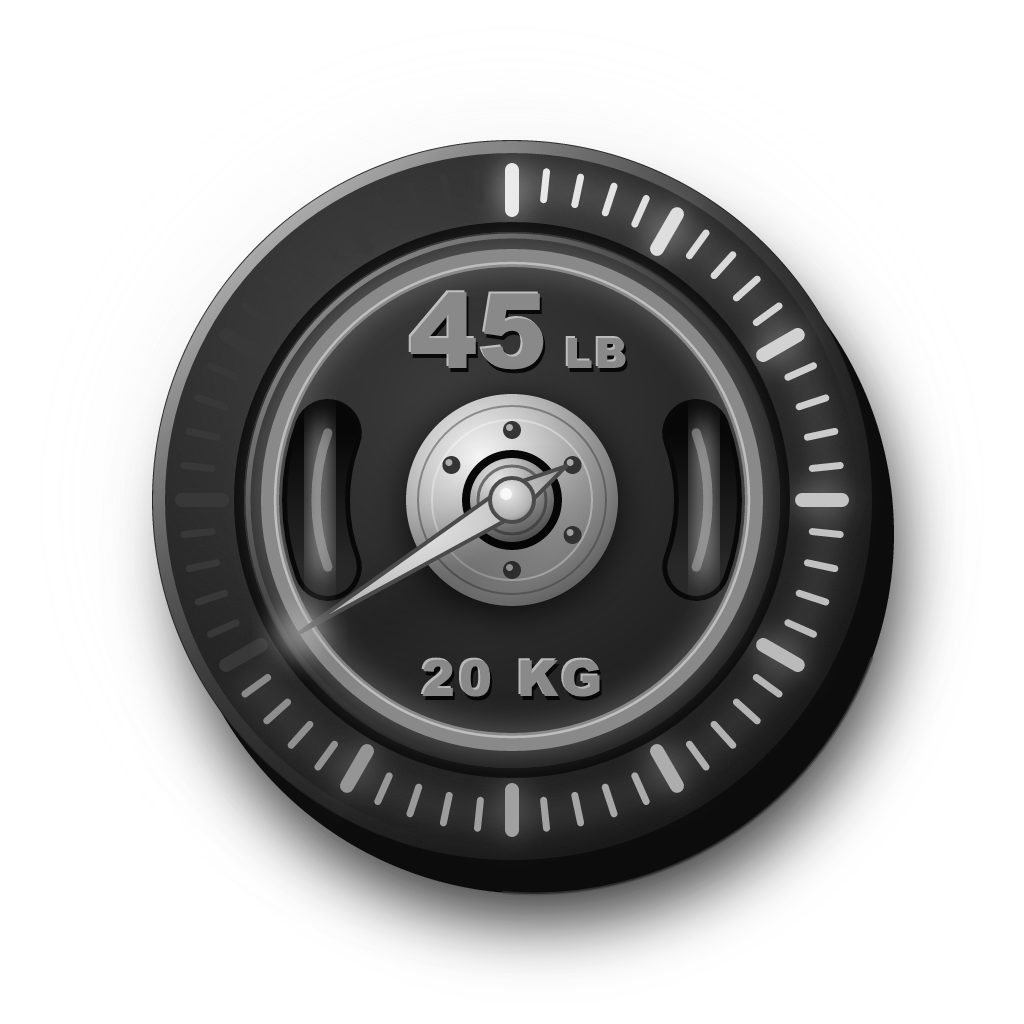
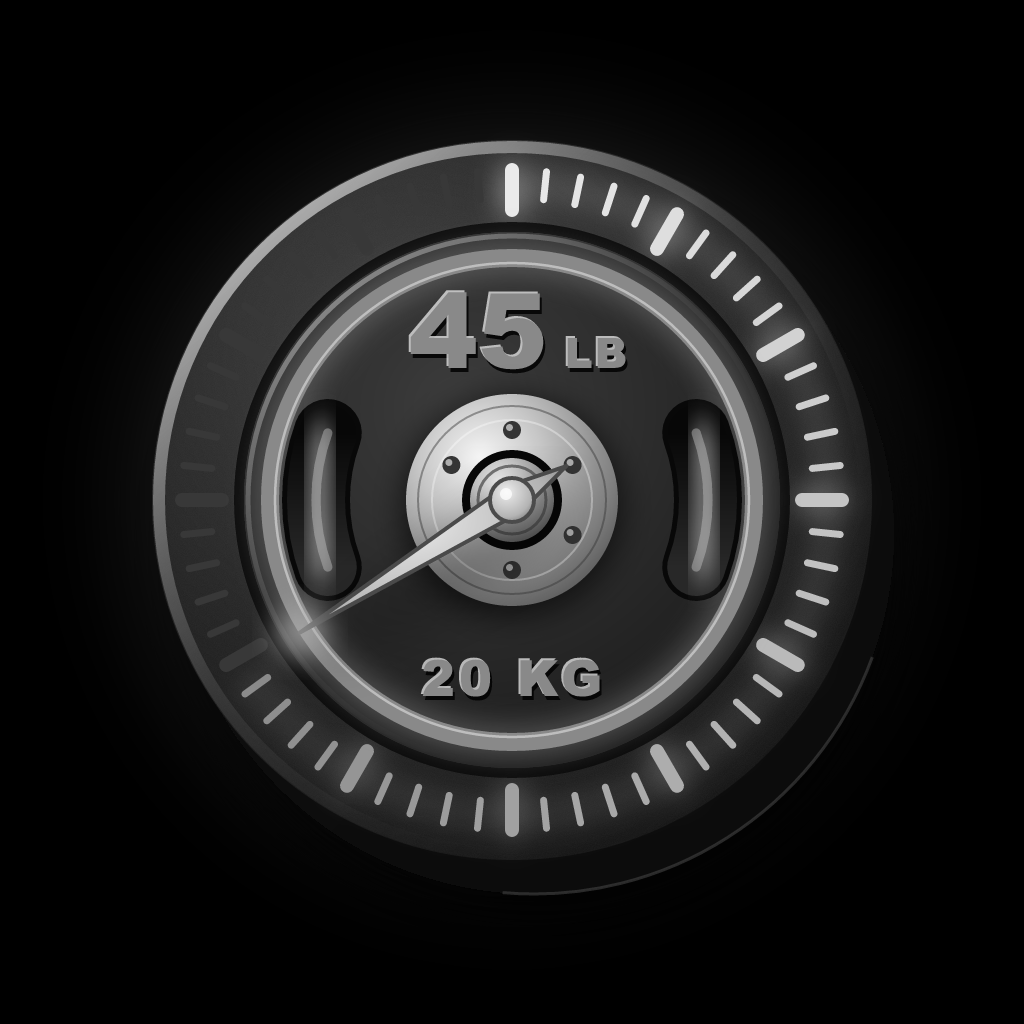
Link the EAS project and fix what a pre-build check found (G4.1)
- app.json: owner gavyn17 and the EAS project id from `eas init`
  (@gavyn17/exercise-tracker, the personal account). The extra.router
  block eas init copied in is dropped; the router plugin adds the same
  default. tests/appConfig.test.ts pins the link.
- icon-tinted.png: flattened onto opaque black. Expo fills transparency
  in the tinted icon with white, which would tint as a bright tile.
- .gitignore: repeat the upload-relevant client/.gitignore rules at the
  root, since EAS CLI on Windows skips nested .gitignore files.
- DEV_BUILD.md: steps 1-4 done; steps 5, 6 and 8 match eas-cli 27.5's
  prompts, including what to answer if the iPhone isn't ready at Apple.
- AGENTS.md, ROADMAP.md: introspect's stand-in Info.plist, never re-run
  eas init, current goal.

diff --git a/client/tests/appConfig.test.ts b/client/tests/appConfig.test.ts
@@ -42,6 +42,12 @@ describe('app variants', () => {
     assert.equal(eas.build.production.env.APP_VARIANT, 'production');
     assert.equal(eas.cli.appVersionSource, 'remote');
   });
+
+  test("linked to the owner's EAS project, so builds and credentials stay on one account", () => {
+    assert.equal(app.owner, 'gavyn17');
+    assert.equal(app.extra.eas.projectId, 'b6da9cab-c7e9-420a-84cf-f016dfc25da8');
+    assert.equal(app.extra.router, undefined, 'the router plugin adds its own defaults; app.json keeps none');
+  });
 });
 
 describe('native settings', () => {

diff --git a/DEV_BUILD.md b/DEV_BUILD.md
@@ -2,44 +2,25 @@
 
 The development build is the app's own copy on your iPhone, called **Tracker Dev**. Like Expo Go, it loads the code from your PC, so code changes still reload instantly. Unlike Expo Go, it can run the native code that form analysis needs (camera, pose detection), and it shows the app's real icon, splash and permission prompts.
 
-Everything in the project is set up. What's left needs your accounts, so you run these steps yourself. Run every command in a terminal in the `client` folder.
+Steps 1-4 are done. Steps 5-7 need your Apple ID, so you run them yourself. Run every command in a terminal in the `client` folder: in VS Code, **Terminal → New Terminal**, then `cd client`.
 
 **Costs:** the Apple Developer Program is US$99 a year. The free Expo plan includes 15 iOS builds a month, and you only need a new build when native settings change (see the end of this guide).
 
-## Before you start: wrap up Expo Go
+## Expo Go after the switch
 
 Expo Go and Tracker Dev keep separate data. Nothing you logged in Expo Go moves across, and Tracker Dev starts with sample data.
 
-1. If anything you logged in Expo Go matters, export it: **Profile → Data & account → Everything as JSON**, then save it to Files. There's no import yet, so this is only a copy for safekeeping.
-2. Turn off every notification in **Profile → Notifications**, with the app open, so Expo Go cancels its reminders. Otherwise you'd get each reminder twice, once from each app. After step 4 below, Expo Go can no longer cancel them.
+Since the project was linked (step 4), Expo Go opens the app with fresh data too, and it can no longer cancel reminders it scheduled before. If you ever get a reminder twice, turn off notifications for Expo Go in **iOS Settings → Expo Go → Notifications** (or delete Expo Go once Tracker Dev works).
 
-## 1. Join the Apple Developer Program
+## 1. Join the Apple Developer Program (done)
 
-- Enroll as an **Individual** in the Apple Developer app on your iPhone, or at developer.apple.com/programs/enroll.
-- Use your legal name, and an Apple Account with two-factor authentication turned on.
-- Confirmation usually takes about a day. If you haven't heard back within 24 hours of paying, contact Apple.
+An Individual membership, on the Apple Account you'll sign in with in steps 5 and 6.
 
-## 2. Check your Expo account
+## 2-4. Expo account, EAS tool and project link (done)
 
-You already have one, because Expo Go requires it. Run `npx expo whoami` to see the account name; use that same account below.
-
-## 3. Install the EAS command-line tool
-
-```
-npm install --global eas-cli
-eas login
-eas whoami
-```
-
-`eas login` opens a browser window to sign in.
-
-## 4. Link the project
-
-```
-eas init
-```
-
-This creates the project on expo.dev and adds its ID to `app.json`. Tell me when it's done, and I'll commit that change.
+- The project is **@gavyn17/exercise-tracker** on expo.dev, owned by your personal account. Its ID and owner are in `app.json`.
+- The EAS command-line tool is installed on this PC, and it uses the same sign-in as `npx expo`.
+- On another PC, run `npm install --global eas-cli`, then `eas whoami`. Only if it says you're not logged in, run `eas login`.
 
 ## 5. Register your iPhone
 
@@ -47,9 +28,11 @@ This creates the project on expo.dev and adds its ID to `app.json`. Tell me when
 eas device:create
 ```
 
-1. Sign in with your Apple ID when asked, and choose **Website**.
-2. Scan the QR code it shows with the iPhone camera, then tap **Download Profile**.
-3. Open **Settings**, tap **Profile Downloaded** near the top, and tap **Install**.
+1. **Would you like to use the gavyn17 account?** Yes.
+2. Sign in to Apple with your Apple ID and password. For the 2FA code, choose **device**, tap Allow on the iPhone, and type the 6-digit code it shows. On Windows the password isn't saved, but the sign-in is kept, so step 6 usually won't ask again.
+3. **How would you like to register your devices?** Choose **Website**.
+4. Scan the QR code with the iPhone camera, open the link, and tap **Download Profile** (tap Allow if Safari asks).
+5. Within 8 minutes, open **Settings**, tap **Profile Downloaded** near the top, tap **Install**, and follow the prompts (passcode, Install). The phone returns to the browser, which says the device is registered. If iOS won't install it while you're away from home, Stolen Device Protection is blocking it: do this step at home.
 
 ## 6. Build
 
@@ -61,13 +44,21 @@ It asks a few questions:
 
 | Question | Answer |
 |---|---|
-| Log in to your Apple account? | Yes. Enter your Apple ID password and the 2FA code. On Windows it isn't saved, so you'll type it again whenever EAS needs Apple. |
-| Generate a new Apple Distribution Certificate? | Yes |
-| Select devices for the ad hoc build | Your iPhone (selected already) |
+| Do you want to log in to your Apple account? | Yes. Your Apple ID is already filled in: press Return. EAS usually reuses the sign-in from step 5 ("Logged in Local session") and skips the password. If it does ask, enter the password and 2FA code as in step 5. Windows can't store the password, even though EAS prints "Saving Apple ID password to the local Keychain". |
+| Generate a new Apple Distribution Certificate? | Yes. (On a later try it asks **Reuse this distribution certificate?** instead: Yes.) |
+| Select devices for the ad hoc build | Your iPhone (selected already): press Return |
+| Would you like to reuse the profile? (later builds only) | Yes |
+
+It also registers the app with Apple and turns on Sign In with Apple by itself ("Synced capabilities: Enabled: Sign In with Apple"). There's no push notifications question.
 
 The build runs in Expo's cloud. On the free plan it waits in a queue, so it can take a while; you can close the terminal and follow it on expo.dev.
 
-**If the build fails over the device:** on a new membership, Apple can take up to 72 hours to activate a newly registered device. Wait, then run the same command again.
+**If your iPhone isn't ready at Apple yet:** on a new membership, Apple can take 24-72 hours to finish processing a newly registered device (EAS sends it to Apple during this first build). You'll see one of two things:
+
+- The command stops with an error about devices or the provisioning profile.
+- It warns "Failed to provision 1 of the selected devices" and asks **Do you want to continue without provisioning these devices?**. Choose **No (EAS CLI will exit)**. Yes is selected by default, and a build made without your iPhone can't be installed on it.
+
+Either way nothing is used up, because this happens before the upload. Wait, then run the same command again. (If you picked Yes by mistake, the next run says the provisioning profile is missing your iPhone and asks **Would you like to choose the devices to provision again?**: answer Yes.)
 
 ## 7. Install on the iPhone
 
@@ -79,8 +70,8 @@ The build runs in Expo's cloud. On the free plan it waits in a queue, so it can 
 ## 8. Run it
 
 1. On the PC, run `npm start` in `client`. The phone and PC need to be on the same Wi-Fi, as with Expo Go.
-2. Open **Tracker Dev**. Tap **Allow** when iOS asks to find devices on your local network. If you tapped Don't Allow, turn it on in **Settings → Tracker Dev → Local Network**.
-3. Tap your PC's server in the list, or scan the QR code from the terminal with the iPhone camera.
+2. Open **Tracker Dev**. The first time, it shows **Finding Dev Servers**: tap **Next**, tap **Allow** when iOS asks to find devices on your local network, then tap **Done**. If you tapped Don't Allow, turn it on in **Settings → Tracker Dev → Local Network**.
+3. Under **Development servers**, tap **Tracker Dev** (it shows your PC's address, ending in `:8081`), or scan the QR code from the terminal with the iPhone camera.
 
 - **Developer menu:** shake the phone (or press `m` in the terminal). Press `r` in the terminal to reload.
 - **If it can't connect:** run `npx expo start --tunnel` instead. It's slower, but it gets through Wi-Fi and firewall problems.
@@ -90,7 +81,7 @@ The build runs in Expo's cloud. On the free plan it waits in a queue, so it can 
 
 This is the G4.1 check: everything from before should still work, and these things are new.
 
-- **Home screen:** the icon in light mode, dark mode and tinted (long-press the home screen → Edit → Customize), labelled **Tracker Dev**.
+- **Home screen:** the icon in light mode, dark mode and tinted (long-press the home screen → Edit → Customize), labelled **Tracker Dev**. Tinted should be a dark plate with tint-coloured ticks and lettering, not a bright tile.
 - **Launch:** the splash in light and dark mode, with no white flash when the phone is in dark mode.
 - **First run:** Profile → Developer → **Restart first-run setup** shows welcome, onboarding and the tour. iOS permission prompts (notifications, Face ID, local network) now name Tracker Dev instead of Expo Go.
 - **Notifications:**
@@ -106,4 +97,4 @@ This is the G4.1 check: everything from before should still work, and these thin
 
 ## When a new build is needed
 
-Code changes reload from the PC as before, with no new build. A new build (step 6 again, then step 7) is only needed when a native package or a native setting changes: `app.json`, `app.config.ts` or `eas.json`. I'll say so whenever a change needs one. G4.2 (camera) will be the first.
+Code changes reload from the PC as before, with no new build. A new build (step 6 again, then step 7) is only needed when a native package or a native setting changes: `app.json`, `app.config.ts`, `eas.json` or an app icon. I'll say so whenever a change needs one. G4.2 (camera) will be the first.

diff --git a/ROADMAP.md b/ROADMAP.md
@@ -4,7 +4,7 @@ Work goals for building the Exercise Tracker. [exercise-tracker-draft.md](exerci
 
 **Priority: get the look right first, then add functionality.** Phases 0-2 build every screen with fake data so the design can be reviewed and approved on an iPhone before any real logic exists.
 
-**Current goal:** G4.1 (EAS development build). The project side is done; the owner builds and installs it with [DEV_BUILD.md](DEV_BUILD.md) once the Apple Developer membership is active. The G3.13 starter programs are waiting for the owner's review (`CONTENT_REVIEW.md`).
+**Current goal:** G4.1 (EAS development build). The project is linked to EAS and the Apple Developer membership is active; the owner registers the iPhone, builds and installs with [DEV_BUILD.md](DEV_BUILD.md) steps 5-9. The G3.13 starter programs are waiting for the owner's review (`CONTENT_REVIEW.md`).
 
 ## How we work
 
@@ -420,13 +420,14 @@ Everything works on one phone, offline, with no server.
 
 ## Phase 4: Native Build & Form Analysis
 
-**Prerequisites:** an Apple Developer Program membership ($99/yr) and an Expo account (the owner has one already; Expo Go requires it). The iPhone is registered with Apple and has Developer Mode on. iOS builds come from EAS cloud builds, because Windows can't build iOS apps locally. The free Expo plan includes 15 iOS builds a month.
+**Prerequisites:** an Apple Developer Program membership ($99/yr, active since 2026-11) and an Expo account (gavyn17). The iPhone is registered with Apple and has Developer Mode on. iOS builds come from EAS cloud builds, because Windows can't build iOS apps locally. The free Expo plan includes 15 iOS builds a month.
 
 ### G4.1 Switch to an EAS development build
 
 - [x] Project setup, no accounts needed. *expo-dev-client, with its floating button and launch menu off (shake for the menu). `eas.json` has development, preview and production profiles; build numbers are kept by EAS. The development build is its own app (user's pick): "Tracker Dev", bundle id `com.gavynnygren.exercisetracker.dev`, through `app.config.ts` and `APP_VARIANT`, so a normal build can sit beside it later with separate data. Native settings: iOS 17.0 minimum (spec 1), the Face ID prompt line (user's pick: "Face ID unlocks the app when the app lock is on. The app never sees your face."), no push entitlement since every V1 notification is local, and exempt encryption only. `tests/appConfig.test.ts` pins these. `npm run start:go` still opens Expo Go.*
 - [x] Fixes for running outside Expo Go. *Developer copy no longer names Expo Go; Pending notifications lists the rest alarm on its own line. The Face ID lock follows spec 2.3: a passcode-only phone can use it, Face ID denied for the app falls back to the passcode with a row that says so, and a lock that's on can always be turned off (before, denying Face ID left it stuck on).*
-- [ ] The owner builds and installs it ([DEV_BUILD.md](DEV_BUILD.md) steps 1-8), wrapping up Expo Go first (export, notifications off).
+- [x] Link the project. *EAS project @gavyn17/exercise-tracker, on the personal account (user's pick); `owner` and `extra.eas.projectId` in `app.json`, pinned by the config test. A pre-build check found nothing that would fail the build; it fixed the tinted icon (Expo fills its transparency with white, so it is now flattened onto black), repeated the upload-relevant `client/.gitignore` rules at the root (EAS CLI on Windows skips nested ones), and brought DEV_BUILD.md in line with eas-cli 27.5.*
+- [ ] The owner registers the iPhone, builds and installs it ([DEV_BUILD.md](DEV_BUILD.md) steps 5-8).
 - [ ] Confirm everything from Phases 0-3 still works, plus the native-only checks in [DEV_BUILD.md](DEV_BUILD.md) step 9 (icons, splash, permission prompts, notification taps from a cold start, Face ID lock).
 
 ### G4.2 Camera stack spike (go/no-go)

diff --git a/client/AGENTS.md b/client/AGENTS.md
@@ -15,4 +15,4 @@ This project is on Expo SDK 58. Read the exact versioned docs at https://docs.ex
 - Progression rules live in a pure module, `src/features/workout/progression.ts`: what a rule suggests, misses and deloads, rounding, the reason line's wording, and undo. A planned exercise's "last time" is its own plan workout's (`slotHistory` in `history.ts`), else the exercise anywhere; the pre-fill and the PREVIOUS column both use it.
 - `npm test` runs unit tests in `tests/` with Node's test runner. Tests can't import React Native or Expo modules; database tests use Node's built-in SQLite through `tests/support/nodeSqlite.ts`. `npm run typecheck` checks the app and the tests.
 - The app is previewed in Expo Go and, from G4.1, in the development build ("Tracker Dev"; owner steps in `DEV_BUILD.md` at the repo root). Keep to modules "Included in Expo Go" until G4.2 adds the camera stack.
-- Native settings live in `app.json` (the real app), `app.config.ts` (the development variant: `APP_VARIANT` unset or `development` gives "Tracker Dev" with a `.dev` bundle id) and `eas.json` (every profile sets `APP_VARIANT`). `tests/appConfig.test.ts` pins them. Any change to these files, a config plugin or a native package needs a new EAS build: tell the owner when a change does. Check the resulting Info.plist and entitlements with `npx expo config --type introspect` (read-only); never run `expo prebuild` in `client/`, since it rewrites `package.json`.
+- Native settings live in `app.json` (the real app), `app.config.ts` (the development variant: `APP_VARIANT` unset or `development` gives "Tracker Dev" with a `.dev` bundle id) and `eas.json` (every profile sets `APP_VARIANT`). `tests/appConfig.test.ts` pins them. Any change to these files, a config plugin or a native package needs a new EAS build: tell the owner when a change does. Check the resulting Info.plist and entitlements with `npx expo config --type introspect` (read-only); never run `expo prebuild` in `client/`, since it rewrites `package.json`. Introspect starts from a stand-in Info.plist: base keys (UIRequiredDeviceCapabilities, NSAppTransportSecurity, UIApplicationSceneManifest) come from the SDK 58 template at build time, so judge only the keys app.json and the plugins add. The project is linked to EAS (`owner` and `extra.eas.projectId` in `app.json`); never run `eas init` again or change them.

diff --git a/client/assets/source/README.md b/client/assets/source/README.md
@@ -6,7 +6,7 @@ The PNGs in `../` were rendered from it with resvg at 1024 px:
 
 - `icon.png`: the iOS light icon and the default icon.
 - `icon-dark.png`: the same art without the background, for the iOS 18 dark home screen.
-- `icon-tinted.png`: the dark version in grayscale, for the tinted home screen.
+- `icon-tinted.png`: the dark version in grayscale, flattened onto opaque black, for the tinted home screen. Keep it opaque: Expo fills any transparency in the tinted icon with white, which tints as a bright tile.
 - `splash-icon.png`: the plate alone, centered by expo-splash-screen on #F2F4F7 (light) or #0B0D10 (dark).
 - `android-icon-*.png`: the adaptive-icon foreground, scaled into the safe zone, and a monochrome silhouette.
 
